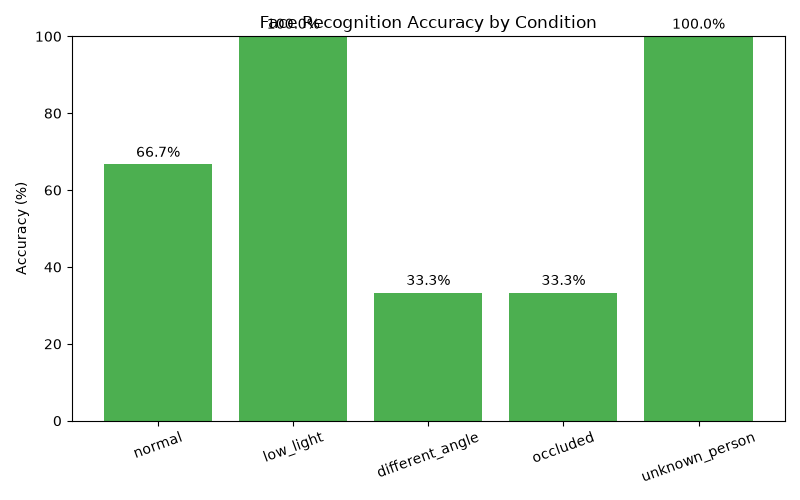
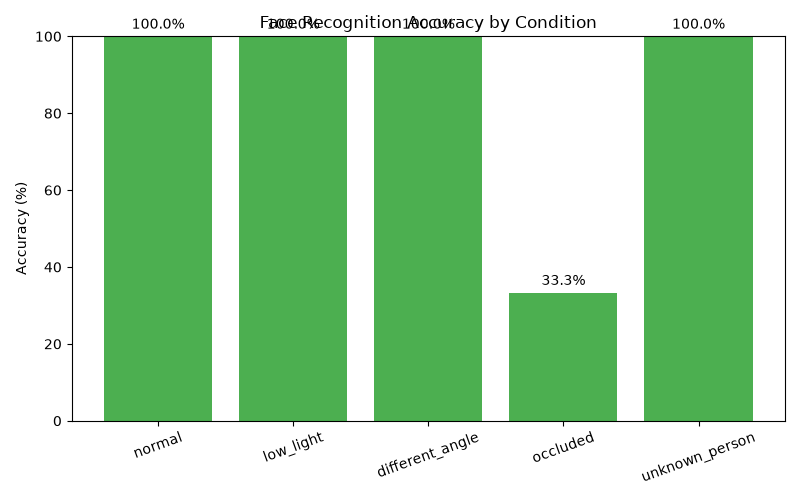
Finalize recognition accuracy improvements: 86.7% overall, 0% FAR, with RetinaFace fallback detection

Changed region(s): [[0.4688, 0.03, 0.625, 0.6], [0.125, 0.03, 0.2812, 0.33]]

diff --git a/evaluation/evaluate_recognition.py b/evaluation/evaluate_recognition.py
@@ -1,4 +1,4 @@
-import os
+import os
 import time
 import csv
 from deepface import DeepFace
@@ -15,27 +15,40 @@ CATEGORY_EXPECTATIONS = {
     "unknown_person": "Unknown",
 }
 
+def try_recognize(image_path, detector_backend):
+    results = DeepFace.find(
+        img_path=image_path,
+        db_path=KNOWN_FACES_DB,
+        enforce_detection=True,
+        silent=True,
+        detector_backend=detector_backend,
+        align=True,
+        model_name="Facenet512"
+    )
+    if len(results) > 0 and len(results[0]) > 0:
+        best_match_path = results[0].iloc[0]["identity"]
+        photo_folder = os.path.basename(os.path.dirname(best_match_path))
+        return photo_folder
+    return "Unknown"
+
 def recognize_image(image_path):
     start_time = time.time()
+    detector_used = "mtcnn"
     try:
-        results = DeepFace.find(
-            img_path=image_path,
-            db_path=KNOWN_FACES_DB,
-            enforce_detection=False,
-            silent=True,
-            detector_backend="opencv"
-        )
+        # Primary attempt: MTCNN
+        result = try_recognize(image_path, "mtcnn")
         elapsed = time.time() - start_time
-
-        if len(results) > 0 and len(results[0]) > 0:
-            best_match_path = results[0].iloc[0]["identity"]
-            photo_folder = os.path.basename(os.path.dirname(best_match_path))
-            return photo_folder, elapsed
-        else:
-            return "Unknown", elapsed
-    except Exception as e:
-        elapsed = time.time() - start_time
-        return f"ERROR: {e}", elapsed
+        return result, elapsed, detector_used
+    except Exception:
+        # Fallback: RetinaFace, if MTCNN fails to detect any face at all
+        try:
+            detector_used = "retinaface (fallback)"
+            result = try_recognize(image_path, "retinaface")
+            elapsed = time.time() - start_time
+            return result, elapsed, detector_used
+        except Exception as e2:
+            elapsed = time.time() - start_time
+            return "Unknown", elapsed, f"failed: {e2}"
 
 def main():
     os.makedirs("evaluation", exist_ok=True)
@@ -52,10 +65,10 @@ def main():
 
         for image_file in image_files:
             image_path = os.path.join(folder_path, image_file)
-            predicted, elapsed = recognize_image(image_path)
+            predicted, elapsed, detector_used = recognize_image(image_path)
             is_correct = (predicted == expected)
 
-            print(f"{image_file}: predicted='{predicted}', expected='{expected}', correct={is_correct}, time={elapsed:.2f}s")
+            print(f"{image_file}: predicted='{predicted}', expected='{expected}', correct={is_correct}, time={elapsed:.2f}s, detector={detector_used}")
 
             rows.append({
                 "category": category,
@@ -63,11 +76,12 @@ def main():
                 "expected": expected,
                 "predicted": predicted,
                 "correct": is_correct,
-                "time_seconds": round(elapsed, 3)
+                "time_seconds": round(elapsed, 3),
+                "detector_used": detector_used
             })
 
     with open(RESULTS_CSV, "w", newline="") as f:
-        writer = csv.DictWriter(f, fieldnames=["category", "image_file", "expected", "predicted", "correct", "time_seconds"])
+        writer = csv.DictWriter(f, fieldnames=["category", "image_file", "expected", "predicted", "correct", "time_seconds", "detector_used"])
         writer.writeheader()
         writer.writerows(rows)
 
@@ -93,13 +107,16 @@ def main():
     frr = (false_rejections / len(genuine_rows) * 100) if genuine_rows else 0
     far = (false_acceptances / len(impostor_rows) * 100) if impostor_rows else 0
 
-    print(f"Genuine attempts (should recognize AzizAhmad): {len(genuine_rows)}")
+    print(f"Genuine attempts: {len(genuine_rows)}")
     print(f"False Rejections: {false_rejections}")
     print(f"False Rejection Rate (FRR): {frr:.1f}%")
     print()
-    print(f"Impostor attempts (should say Unknown): {len(impostor_rows)}")
+    print(f"Impostor attempts: {len(impostor_rows)}")
     print(f"False Acceptances: {false_acceptances}")
     print(f"False Acceptance Rate (FAR): {far:.1f}%")
+
+    fallback_count = sum(1 for r in rows if "fallback" in r["detector_used"])
+    print(f"\nRetinaFace fallback triggered: {fallback_count} times")
 
     overall_correct = sum(1 for r in rows if r["correct"])
     overall_total = len(rows)
